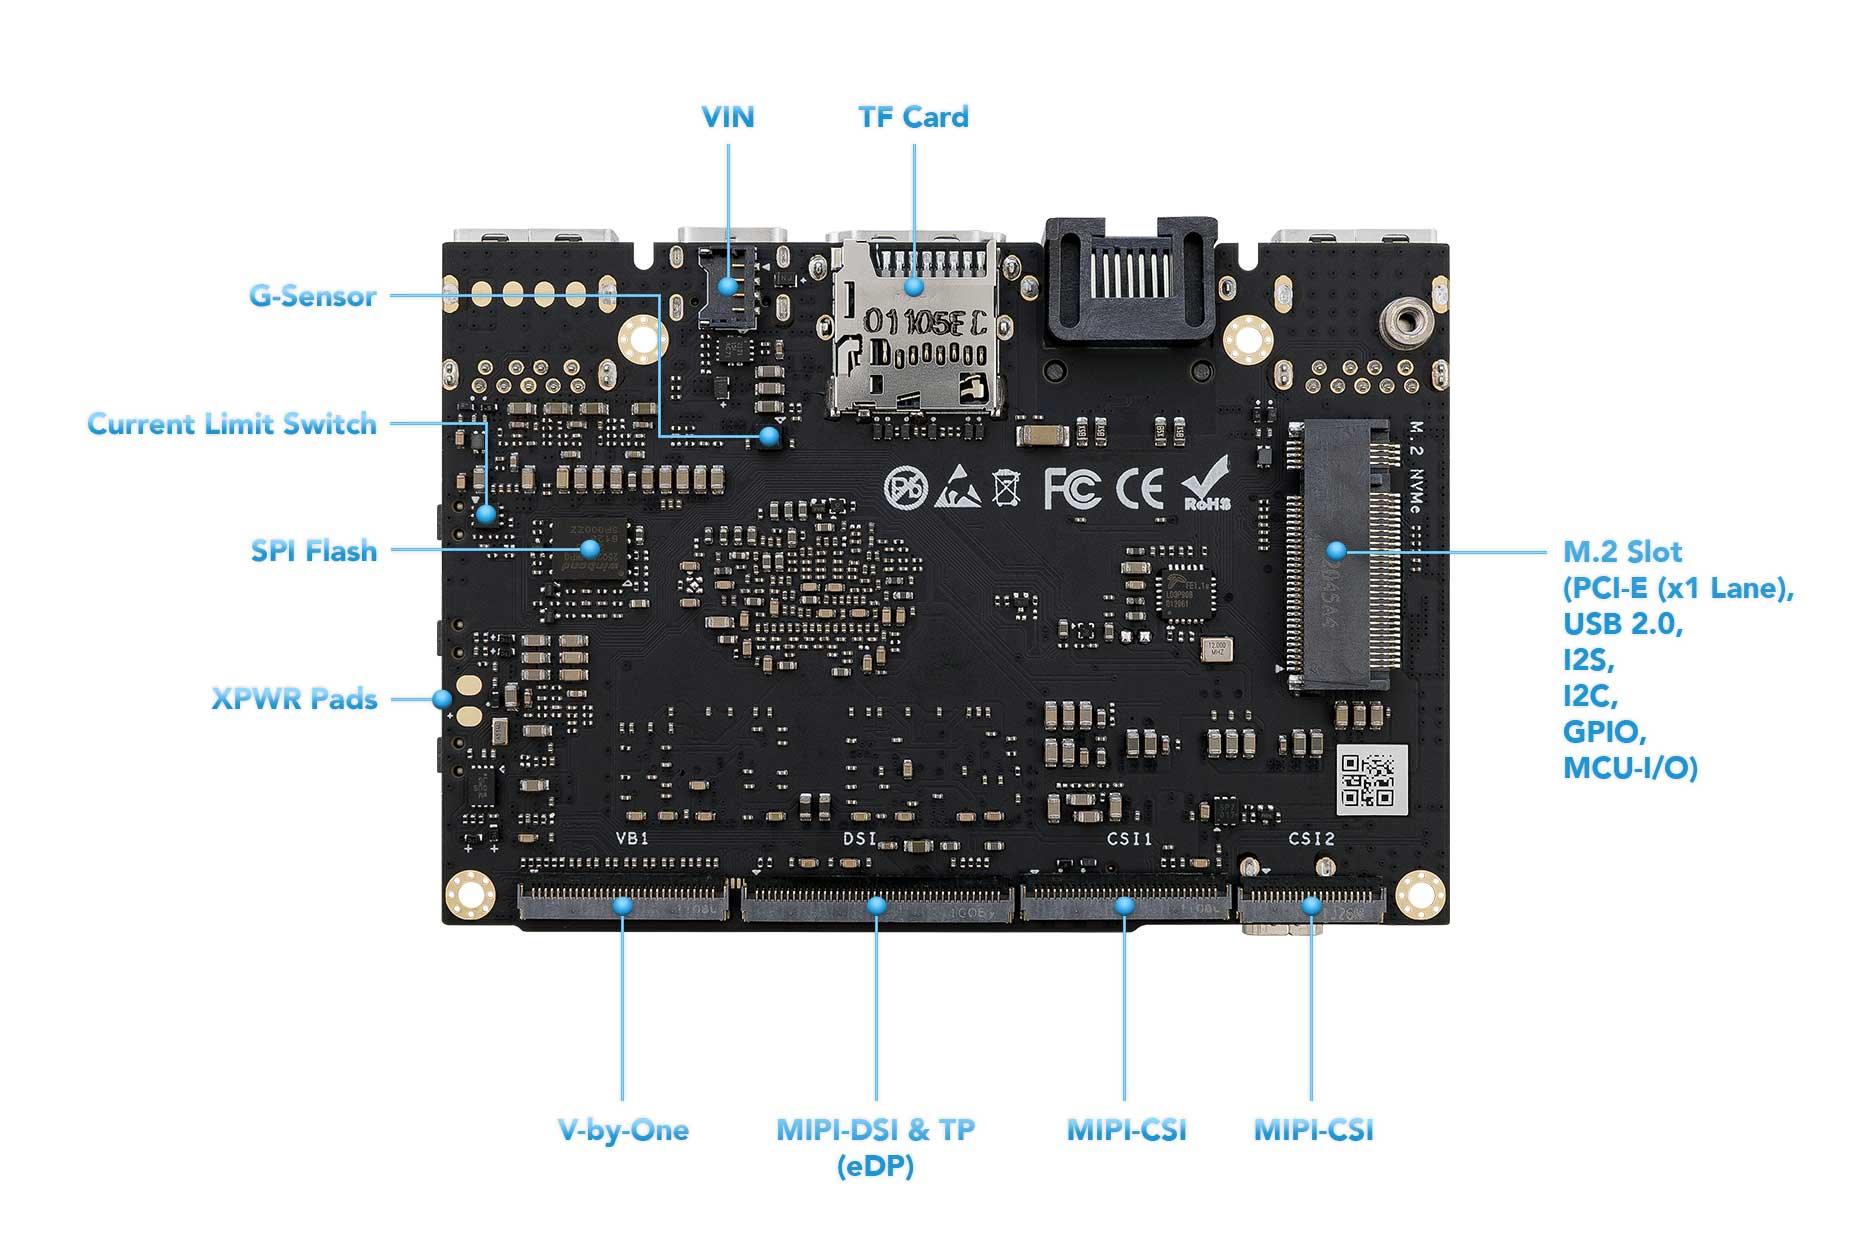
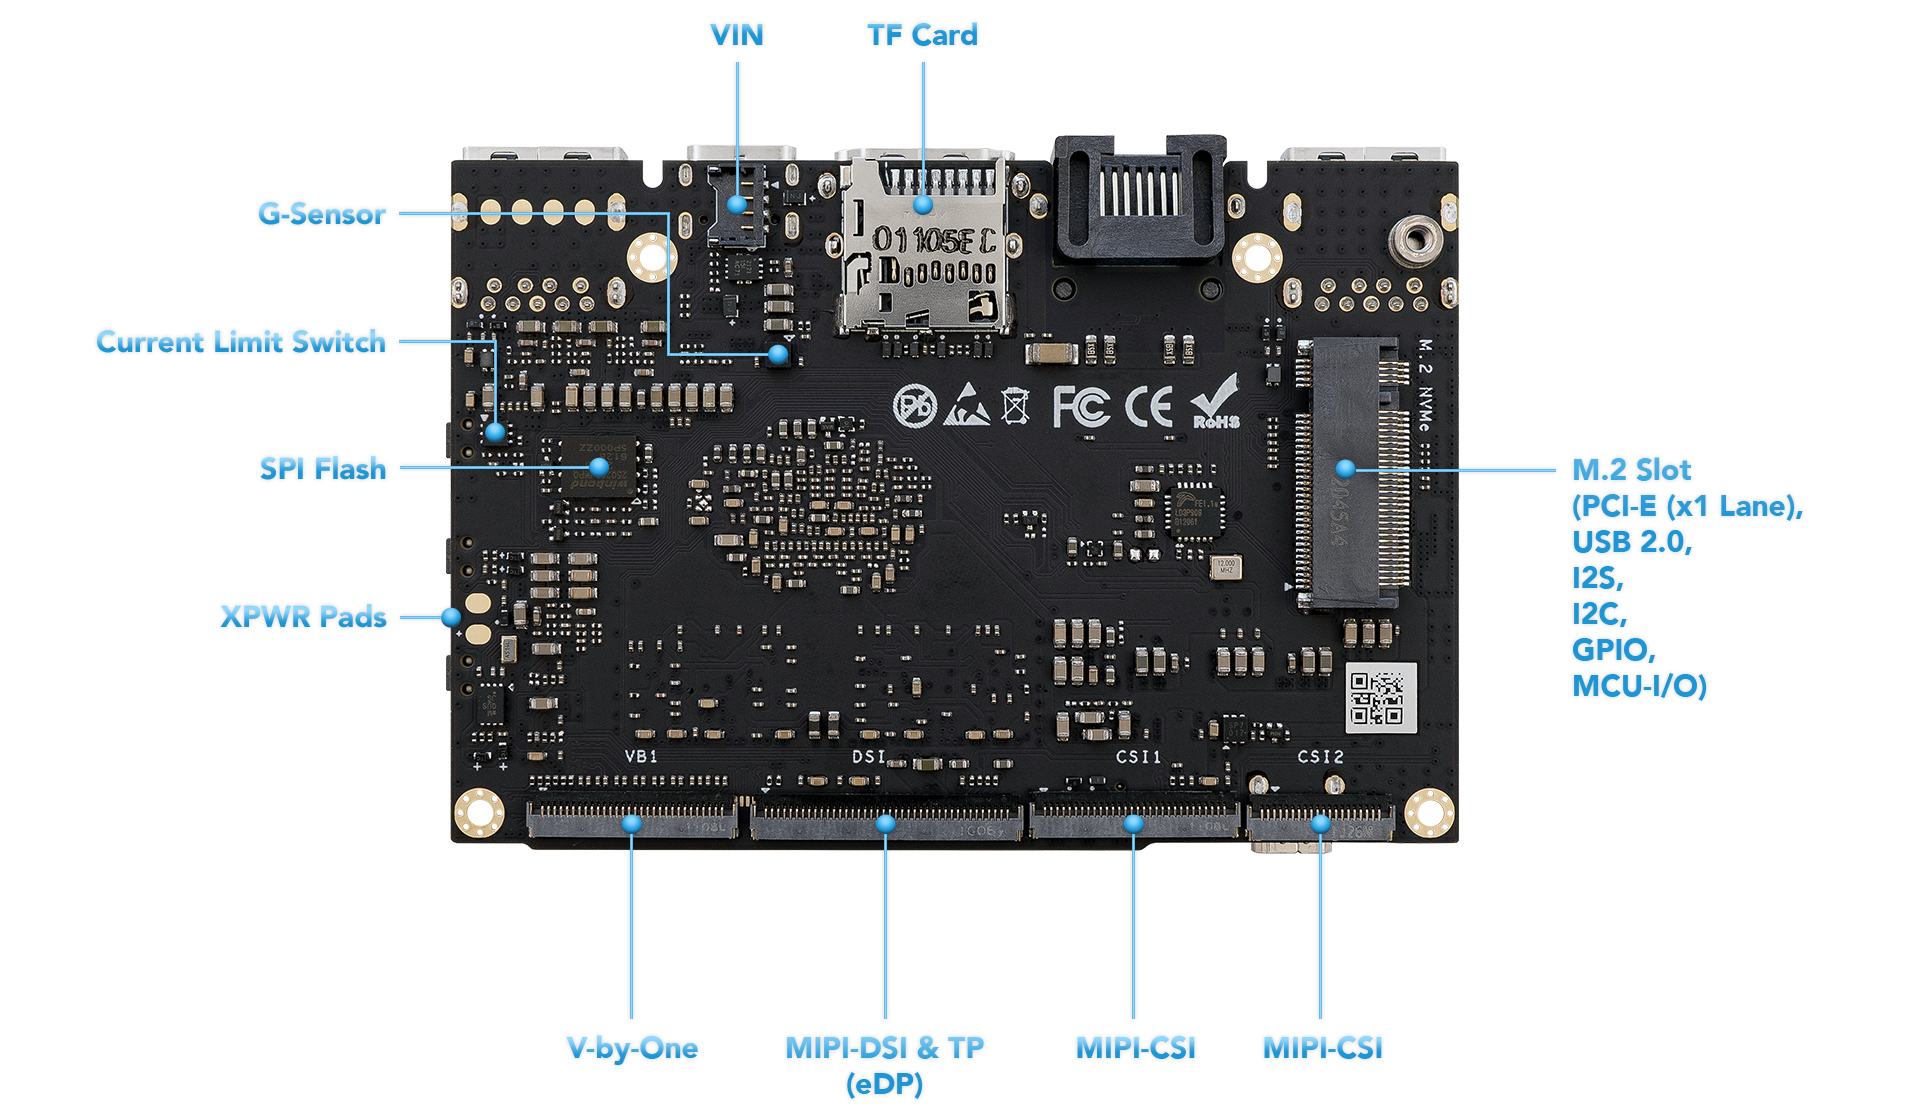
docs: linux: VIM1/VIM2/VIM3/VIM4/Edge: update pictures in hardware interfaces docs

Changed region(s): [[0.031, 0.0, 0.9625, 0.9688], [0.4036, 0.875, 0.5278, 1.0]]

diff --git a/linux/source/zh-cn/vim3/Hardware.md b/linux/source/zh-cn/vim3/Hardware.md
@@ -1,10 +1,10 @@
-title: VIM3 硬件描述
+title: VIM3/3L 硬件描述
 ---
 
 ## VIM3 接口描述
 
-![VIM3 Interface Top](/linux/images/vim3/vim3_interfaces_top.jpg)
-![VIM3 Interface Bottom](/linux/images/vim3/vim3_interfaces_bottom.jpg)
+![VIM3 Interface Top](/linux/images/vim3/vim3_interfaces_top.png)
+![VIM3 Interface Bottom](/linux/images/vim3/vim3_interfaces_bottom.png)
 
 
 ## VIM3 硬件信息
@@ -120,7 +120,12 @@ Linux_TX|19|39|GPIODZ_15
 </div>
 </div>
 
-## VIM3L
+## VIM3L 接口描述
+
+![VIM3L Interface Top](/linux/images/vim3/vim3l_interfaces_top.png)
+![VIM3L Interface Bottom](/linux/images/vim3/vim3l_interfaces_bottom.png)
+
+## VIM3L 硬件信息
 
 ![image](/linux/images/vim3/docs_vim3l.jpg)
 

diff --git a/linux/source/vim3/Hardware.md b/linux/source/vim3/Hardware.md
@@ -1,10 +1,10 @@
-title: VIM3 Hardware
+title: VIM3/3L Hardware
 ---
 
 ## VIM3 Interfaces
 
-![VIM3 Interface Top](/linux/images/vim3/vim3_interfaces_top.jpg)
-![VIM3 Interface Bottom](/linux/images/vim3/vim3_interfaces_bottom.jpg)
+![VIM3 Interface Top](/linux/images/vim3/vim3_interfaces_top.png)
+![VIM3 Interface Bottom](/linux/images/vim3/vim3_interfaces_bottom.png)
 
 ## VIM3 Hardware Info
 
@@ -118,8 +118,12 @@ Linux_TX|19|39|GPIODZ_15
 </div>
 </div>
 
+## VIM3L Interfaces
 
-## VIM3L
+![VIM3L Interface Top](/linux/images/vim3/vim3l_interfaces_top.png)
+![VIM3L Interface Bottom](/linux/images/vim3/vim3l_interfaces_bottom.png)
+
+## VIM3L Hardware Info
 
 ![image](/linux/images/vim3/docs_vim3l.jpg)
 

diff --git a/linux/source/zh-cn/edge/Hardware.md b/linux/source/zh-cn/edge/Hardware.md
@@ -3,18 +3,22 @@ title: Edge 硬件描述
 
 ## Edge系列接口描述
 
-### Edge 
+### Edge
 
-![Top view](/linux/images/edge/edge-specs.jpg)
+![Edge TOP](/linux/images/edge/edge_top_interfaces.png)
+![Edge BOTTOM](/linux/images/edge/edge_bottom_interfaces.png)
 
 ### Edge-V
 
-![Top view](/linux/images/edge/edgev_interfaces.jpg)
+![Edge-V TOP](/linux/images/edge/edge_v_top_interfaces.png)
+![Edge-V BOTTOM](/linux/images/edge/edge_v_bottom_interfaces.png)
 
 
 ### Captain
 
-![Top view](/linux/images/edge/captain_interfaces.jpg)
+![Captain TOP](/linux/images/edge/captain_v_top_interfaces.png)
+![Captain BOTTOM](/linux/images/edge/captain_bottom_interfaces.png)
+
 
 ## Edge系列硬件信息
 

diff --git a/linux/source/edge/Hardware.md b/linux/source/edge/Hardware.md
@@ -5,16 +5,19 @@ title: Edge Series Hwardware
 
 ### Edge
 
-![Top view](/linux/images/edge/edge-specs.jpg)
+![Edge TOP](/linux/images/edge/edge_top_interfaces.png)
+![Edge BOTTOM](/linux/images/edge/edge_bottom_interfaces.png)
 
 ### Edge-V
 
-![Top view](/linux/images/edge/edgev_interfaces.jpg)
+![Edge-V TOP](/linux/images/edge/edge_v_top_interfaces.png)
+![Edge-V BOTTOM](/linux/images/edge/edge_v_bottom_interfaces.png)
 
 
 ### Captain
 
-![Top view](/linux/images/edge/captain_interfaces.jpg)
+![Captain TOP](/linux/images/edge/captain_v_top_interfaces.png)
+![Captain BOTTOM](/linux/images/edge/captain_bottom_interfaces.png)
 
 
 ## Edge Series Hardware Info

diff --git a/linux/source/zh-cn/vim2/Hardware.md b/linux/source/zh-cn/vim2/Hardware.md
@@ -4,8 +4,8 @@ title: VIM2 硬件描述
 ## VIM2 硬件接口描述
 
 ### VIM2 V14
-![TOP image](/linux/images/vim2/VIM2_v1.4_top_port_labels.jpg)
-![Bottom image](/linux/images/vim2/VIM2_v1.4_bottom_port_labels.jpg) 
+![TOP image](/linux/images/vim2/VIM2_v1.4_top_port_labels.png)
+![Bottom image](/linux/images/vim2/VIM2_v1.4_bottom_port_labels.png) 
 
 ### VIM2 V12
 ![image](/linux/images/vim2/vim2_interfaces.png)

diff --git a/linux/source/vim2/Hardware.md b/linux/source/vim2/Hardware.md
@@ -4,8 +4,8 @@ title: VIM2 Hardware
 ## VIM2 Interfaces
 
 ### VIM2 V14
-![TOP image](/linux/images/vim2/VIM2_v1.4_top_port_labels.jpg)
-![Bottom image](/linux/images/vim2/VIM2_v1.4_bottom_port_labels.jpg)
+![TOP image](/linux/images/vim2/VIM2_v1.4_top_port_labels.png)
+![Bottom image](/linux/images/vim2/VIM2_v1.4_bottom_port_labels.png)
 
 ### VIM2 V12
 ![image](/linux/images/vim2/vim2_interfaces.png)

diff --git a/linux/source/tone1/index.md b/linux/source/tone1/index.md
@@ -56,7 +56,7 @@ If you're using a Tone Board on a Mac, you may notice that you are unable to con
 </div>
 </div>
 
-# More Information:
+## More Information:
 
 * [Tone1 Website](https://www.khadas.com/tone1)
 * [Tone1 User Manual](/linux/tone1/UserManual.html)

diff --git a/linux/source/zh-cn/tone1/index.md b/linux/source/zh-cn/tone1/index.md
@@ -56,7 +56,7 @@ title: Khadas Tone1 初学者 FAQ
 </div>
 </div>
 
-# 更多相关信息:
+## 更多相关信息:
 
 * [Tone1 官网](https://www.khadas.com/tone1)
 * [Tone1 用户手册](/linux/zh-cn/tone1/UserManual.html)
